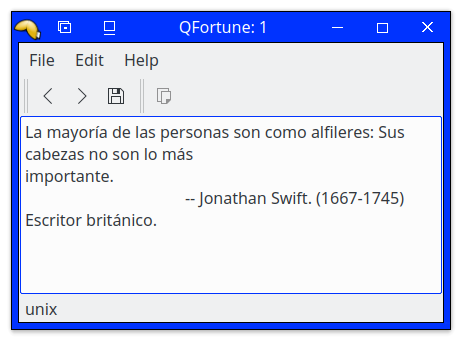
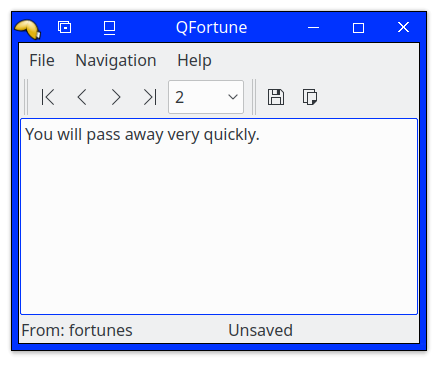
pep8 validation and update preview

Changed region(s): [[0.0, 0.0285, 0.9684, 0.9687], [0.4108, 0.5413, 0.8804, 0.5983], [0.6749, 0.2279, 0.7336, 0.2849]]

diff --git a/src/qfortune.py b/src/qfortune.py
@@ -76,7 +76,6 @@ class MainWindow(QMainWindow):
 
         self.labelGoTo = QLabel("Go to")
         self.comboGoTo = QComboBox()
-        #self.comboGoTo.currentIndexChanged[str].connect(self.goTo)
         for i in range(self.nepigrams):
             self.comboGoTo.addItem(str(i + 1))
         self.comboGoTo.setEditable(True)
@@ -223,10 +222,6 @@ class MainWindow(QMainWindow):
         offensive = self.isOffensive()[1]
         saved = self.isSaved()[1]
         copied = self.isCopied()[1]
-        #text = " ".join((origin, offensive, saved, copied))
-        #self.textEdit.setStatusTip(text)
-        #self.textEdit.setToolTip(text)
-        #self.statusBar().showMessage(text)
         self.statusOrigin.setText(origin)
         self.statusOffensive.setText(offensive)
         self.statusSaved.setText(saved)
@@ -254,10 +249,10 @@ class MainWindow(QMainWindow):
 
     def createActions(self):
         self.firstAct = QAction(QIcon.fromTheme('go-first'),
-                               _("&First"),
-                               self, shortcut=QKeySequence.MoveToStartOfLine,
-                               statusTip=_("Show first cookie"),
-                               triggered=self.firstCookie)
+                                _("&First"),
+                                self, shortcut=QKeySequence.MoveToStartOfLine,
+                                statusTip=_("Show first cookie"),
+                                triggered=self.firstCookie)
 
         self.lastAct = QAction(QIcon.fromTheme('go-last'),
                                _("&Last"),
@@ -305,9 +300,6 @@ class MainWindow(QMainWindow):
                                               " the Qt library"),
                                   triggered=QApplication.instance().aboutQt)
 
-        #self.copyAct.setEnabled(False)
-        #self.textEdit.copyAvailable.connect(self.copyAct.setEnabled)
-
     def createMenus(self):
         self.fileMenu = self.menuBar().addMenu(_("&File"))
         self.fileMenu.addAction(self.copyAct)
@@ -340,7 +332,6 @@ class MainWindow(QMainWindow):
     def createStatusBar(self, message=None):
         if not message:
             message = str(self.nepigrams)
-        #self.statusBar().showMessage(message)
         self.statusBar().addWidget(self.statusOrigin, Qt.AlignLeft)
         self.statusBar().addWidget(self.statusOffensive, Qt.AlignRight)
         self.statusBar().addWidget(self.statusSaved, Qt.AlignRight)
@@ -348,12 +339,10 @@ class MainWindow(QMainWindow):
 
     def readSettings(self):
         settings = QSettings("QFortune", _("Settings"))
-        #pos = settings.value("pos", QPoint(200, 200))
         size = settings.value("size", QSize(400, 300))
         self.setWindowTitle("QFortune")
         self.setWindowIcon(QIcon.fromTheme("qfortune"))
         self.resize(size)
-        #self.move(pos)
 
 
 class AboutDialog(QWidget):
@@ -403,7 +392,7 @@ class AboutTab(QWidget):
         description = QLabel("A pyQt5 interface for reading fortune cookies")
         copyright = QLabel("© 2017, " + AUTHOR)
         source = QLabel(_("Source: ")
-                        + "<a href='" + SOURCE + "'>" + SOURCE +"</a>")
+                        + "<a href='" + SOURCE + "'>" + SOURCE + "</a>")
         license = QLabel(_("License: ")
                          + "<a href='https://www.gnu.org/licenses/"
                          "gpl-3.0.en.html'>"
